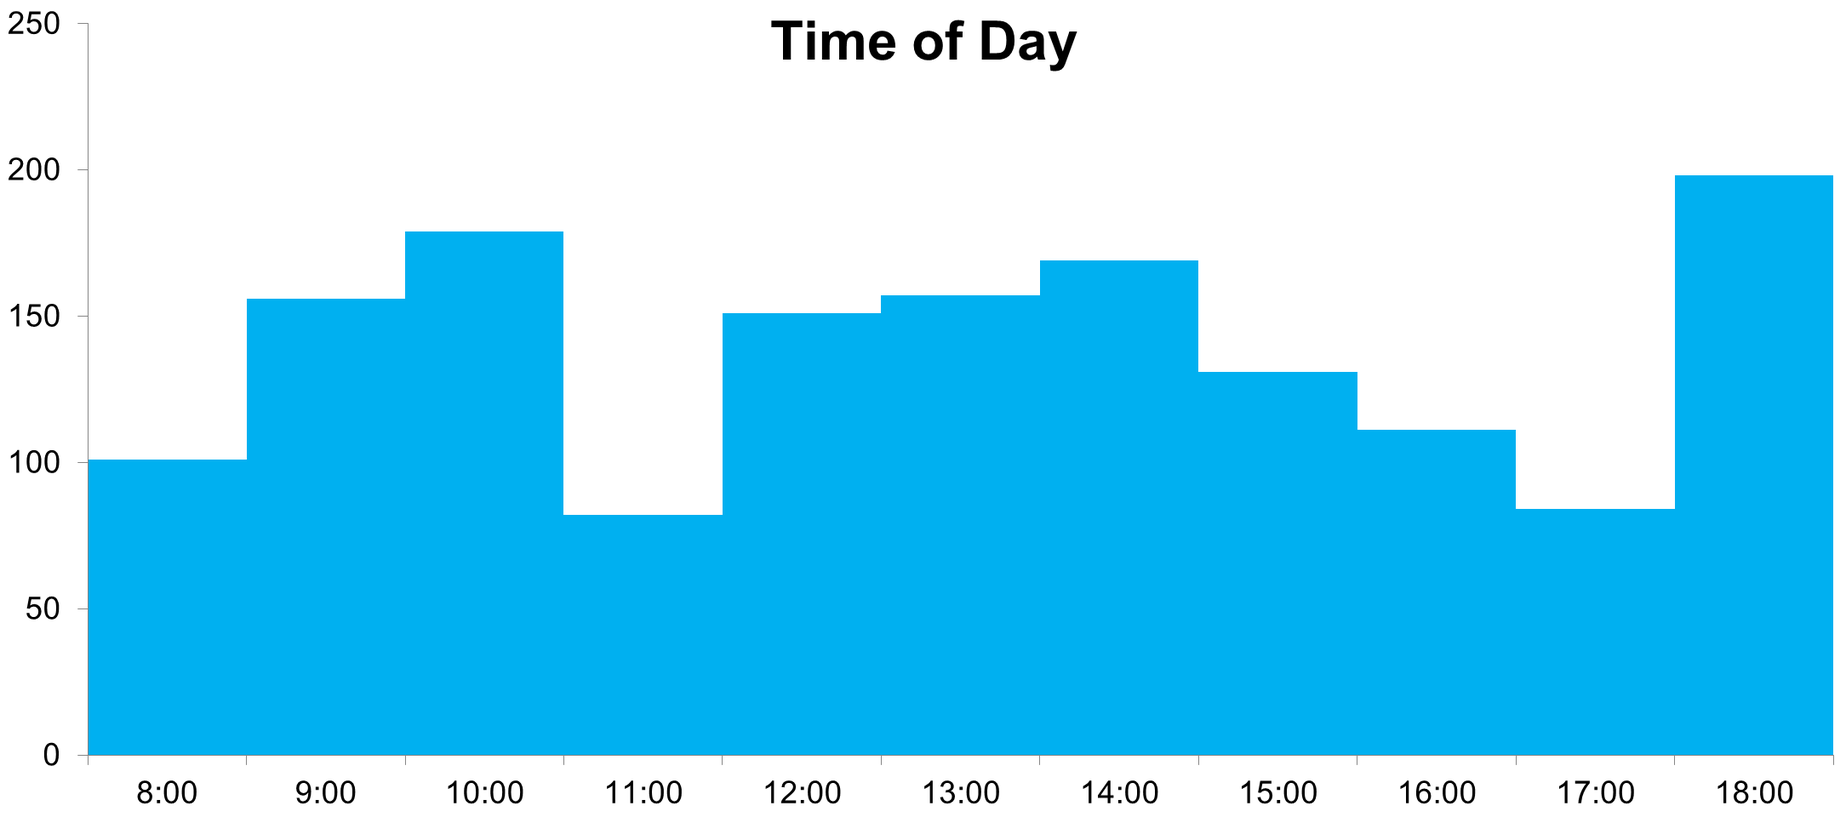
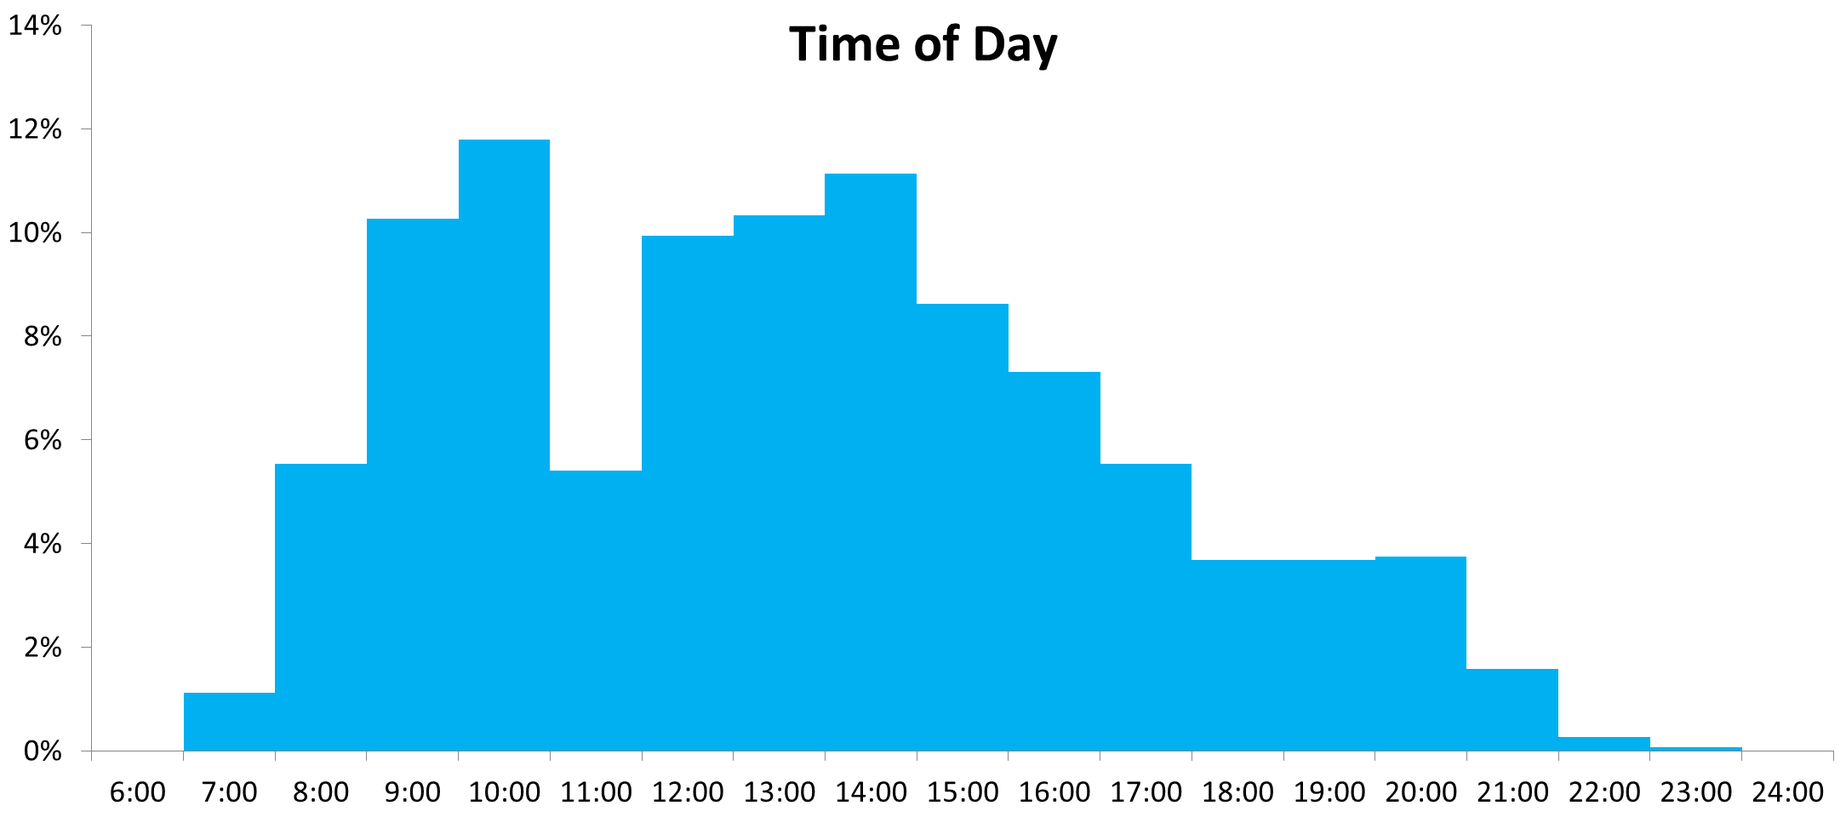
Continued re-focus

diff --git a/index.html b/index.html
@@ -187,7 +187,7 @@ chart.render();
       <div class="navbar navbar-inverse navbar-fixed-top">
         <div class="navbar-inner">
           <div class="container">
-            <!-- Responsive Navbar Part 1: Button for triggering responsive navbar (not covered in tutorial). Include responsive CSS to utilize. -->
+            <!-- Responsive Navbar Part 1: Button for triggering responsive navbar. Include responsive CSS to utilize. -->
             <a class="btn btn-navbar" data-toggle="collapse" data-target=".nav-collapse"> <span class="icon-bar"></span> <span class="icon-bar"></span> <span class="icon-bar"></span> </a>
             <h1 class="brand"><a href="#top">Geospatial</a></h1>
             <!-- Responsive Navbar Part 2: Place all navbar contents you want collapsed withing .navbar-collapse.collapse. -->
@@ -210,7 +210,7 @@ chart.render();
     <!-- ******************** HeaderWrap ********************-->
     <div id="headerwrap">
       <header class="clearfix">
-        <h1><span>THE LOCATION EXPERIMENT</span><br>what my location says about me</span></h1>
+        <h1><span>THE LOCATION EXPERIMENT</span><br>the value of tracking customer location</span></h1>
         <div class="container">
           <div class="row">
             <div class="span12">
@@ -239,41 +239,52 @@ chart.render();
         <!-- ./container -->
       </section>
     </div>
+
     <!--******************** The Results Section ********************-->
+
     <section id="idea" class="single-page scrollblock">
       <div class="container">
             <div class="featurette">
               <h2 class="featurette-heading">So what's the idea?<span class="muted">| why should I care</span></h2>
-            <p>Through the ubiquity of smartphones, an enormous quantity of location data is available in the United States. With these data, much can be guessed about a person based on where they go, how often they go there, and how long they stay. This experiment explores how much I could learn about myself using only my location data as tracked by my smartphone.</p>
-            <p>Collecting my personal location data was very easy. Turns out, my locations are being tracked by Google. If you want to see if you're being tracked, check out <a href="http://www.google.com/locationhistory">Google's Location History website</a>. It allows you to export 30 days of location history in a single kml file. After I collected 90 days of location data, I challenged myself to guess a few things about...myself.</p>
-<p>I started with the basics: where do I work and where do I sleep. But that seemed easy. I wanted to see how far I could take it, so I asked questions like: how much money am I making or what is my favorite type of drink? I wanted to see how personal I could get.
+            <p>Through the ubiquity of smartphones, an enormous quantity of geolocation data is available in the United States, in many cases, as a result of users installing 3rd-party mobile applications. A recent report from <a href="http://www.computerworld.com/s/article/9245438/Evan_Schuman_Starbucks_caught_storing_mobile_passwords_in_clear_text_?taxonomyId=17&pageNumber=1">Computer World</a> stated that the Starbucks mobile payment application "...displays an extensive list of geolocation tracking points." But so what? What could Starbucks do with my location? How could they use these data to better target me as a customer?  
 </p>
-            </div>
+
+<p>
+So I decided to find out for them. In this experiment, I attempt to profile myself using only my location data as recorded by my smartphone. I will then use these data from the perspective of Starbucks to better target me as a customer.
+</p>
+
+<p>
+For this experiment, I needed personal location data, but I don't have Starbuck's mobile payment application on my phone. So, I collected 90 days of data from <a href="http://www.google.com/locationhistory">Google's Location History website</a>, a veritable treasure trove of "geolocation tracking points". Convienently, Google allows you to export 30 days of location history in a single kml file.
+</p>
+
+<p>
+After collecting these location data, I first wanted to profile myself so I started with the basics: where do I work, where do I sleep, and how much money do I probably make. I then wanted to identify my coffee purchasing habits, determining the cafes I normally frequent, my typical length of stay per visit, and how much do I likely spend. Finally, I wanted to figure out why I wasn't going to Starbucks, and identify what Starbucks could do to attract my business. 
+</p>
+
+<p>
+As a disclaimer before moving into the findings, I've kept most of my results as generalized as possible to avoid disclosing personal information (excluding where I drink coffee).
+</p>
+</div>
+</div>
 </section>
+
 <section id="results" class="single-page scrollblock">
         <div class="container">
           <div class="featurette">
-            <div class="inside">
-              <hgroup>
-                <h2>Profiling the target customer</h2>
-              </hgroup>
-              <div class="entry-content">
-                <p>The first objective is to profile the customer.</p>
-            </div>
-            <!-- /.inside -->
-          </div>
-          <div class="featurette">
+	   <h1>Profiling the Customer</h1>
+<br>
             <div class="inside">
               <hgroup>
                 <h2>Where in the world?</h2>
               </hgroup>
             <div class="mask2"> <a href="img/map_images/where_in_the_world.png" rel="prettyPhoto"><img src="img/map_images/where_in_the_world.png" alt=""></a> </div>
-                <a class="more-link" href="img/map_images/where_in_the_world.png">view map</a> </div>
+                <a class="more-link" href="img/map_images/where_in_the_world.png">view map</a> 
               <div class="entry-content">
-                <p>Starting simply, it's clear that the target (me) is located in the United States. A simple point density analysis shows that I am most often found in Washington DC, with a few exceptions that include: New York City, Rochester NY, and Dallas TX.</p>
+                <p>Starting simply, it's clear that the target (me) is located in the United States. A simple point density analysis shows that I am most often found in Washington DC, with a few exceptions that include: New York City, Rochester NY, and Dallas TX. For the purposes of this experiment, we will only focus on DC.</p>
             </div>
             <!-- /.inside -->
           </div>
+</div>
           <!-- /.span4 -->
           <div class="featurette">
             <div class="inside">
@@ -281,15 +292,15 @@ chart.render();
                 <h2>Where do I work?</h2>
               </hgroup>
             <div class="mask2"> <a href="img/map_images/working_hours.png" rel="prettyPhoto"><img src="img/map_images/working_hours.png" alt=""></a> </div>
-                <a class="more-link" href="img/map_images/working_hours.png">view map</a> </div>
+                <a class="more-link" href="img/map_images/working_hours.png">view map</a> 
               <div class="entry-content">
-                <p>To figure out where I work, I focused in on DC, and looked for my locations during normal business hours (excluding holidays - which in this case included Thanksgiving and the Friday after, Christmas Day, New Year's Eve and New Year's day, and Martin Luther King day). I was able to determine that during the working day I can be found in one of these 3 areas. We could narrow this down significantly but I'm keeping things relatively generalized to not give exact personal details away. 
+
+<p>To figure out where I work, I looked for my locations during normal business hours (excluding holidays). I was able to determine that during the working day I can be found in one of these 3 areas. These three areas are very distinct in their composition. The northern-most point is a residential area that has several service-orientated sectors nearby. The eastern-most area focuses on a governmental department building, while the western-most area focuses on a building in Rosslyn Virginia which is occupied by Deloitte LLP and CEB advisory. Also, the target in question makes semi-regular trips between the governmental department building and the Deloitte/CEB building during the day so it's likely that this character works for a consulting firm that supports a federal department. From these results it also appears as though I may telework on occasion. 
 </p>
-<p>
-These three areas are very distinct in their composition. The northern-most point is a residential area that has several service-orientated sectors nearby. The eastern-most area focuses on a governmental department building, while the western-most area focuses on a building occupied by Deloitte LLP and CEB advisory. Also, the character in question (me) makes semi-regular trips between the governmental department building and the Deloitte/CEB building during the day so it's likely that this character works for a consulting firm that supports a federal department.</p>
             </div>
             <!-- /.inside -->
           </div>
+</div>
           <!-- /.span4 -->
           <div class="featurette">
             <div class="inside">
@@ -299,7 +310,7 @@ These three areas are very distinct in their composition. The northern-most poin
             <div class="mask2"> <a href="img/map_images/live.png" rel="prettyPhoto"><img src="img/map_images/live.png" alt=""></a> </div>
                 <a class="more-link" href="img/map_images/live.png">view map</a> </div>
               <div class="entry-content">
-                <p>Looking at non-business hours, it was very clear where I live. In fact, if I wasn't generalizing things, you could make an educated guess as to my apartment number, or an exact guess if I threw in elevation data. Also, from these results it appears as though I may telework on occasion. Ok, so that narrows down my likely place of business to two areas - the one near the mall and the other in Rosslyn Virginia. The data is so specific, I can not only identify the buildings, but the areas in buildings where I sit.</p>
+                <p>Looking at non-business hours, it was very clear where I live. In fact, if I wasn't generalizing things, you could make an educated guess as to my apartment number, or an exact guess if I threw in elevation data. Also, it's very easy to estimate my apartment's square footage.</p>
             </div>
             <!-- /.inside -->
           </div>
@@ -315,7 +326,7 @@ These three areas are very distinct in their composition. The northern-most poin
               </hgroup>
 <div class="mask2" id="chartContainer" style="height: 300px; width: 100%;"></div>
               <div class="entry-content">
-                <p>Using real estate resources, I quickly looked up the average cost of apartments in the building where I reside. The mean cost of apartments is $568,800, with 95% confidence that the value of the apartment is somewhere between $526,746 and $610,819. Assuming general industry guidelines, I probably bought the property with a down payment of 10%, an interest rate of 4.2%, and monthly costs that fall between 30% and 50% of my total household income. These estimates place the monthly cost of ownership between $3,108 and $3,745, and as a result, it's likely that my household brings in between $74,592 and $149,800. I could further refine these numbers if I used the square footage I estimated from the map data, which incidentally was 90% accurate. I guess I need to utilize the corners of my apartment.</p>
+                <p>Using publicly available real estate resources, I quickly looked up the average cost of apartments in the building where I reside. The mean cost of apartments is $568,800, with 95% confidence that the value of the apartment is somewhere between $526,746 and $610,819. Assuming general industry guidelines, I probably bought the property with a down payment of 10%, an interest rate of 4.2%, and monthly costs that fall between 30% and 50% of my total household income. These estimates place the monthly cost of ownership between $3,108 and $3,745, and as a result, it's likely that my household brings in between $74,592 and $149,800. I could further refine these numbers if I used the square footage I estimated from the map data, which incidentally was 90% accurate.</p>
             </div>
             <!-- /.inside -->
           </div>
@@ -324,43 +335,24 @@ These three areas are very distinct in their composition. The northern-most poin
           <div class="span12">
             <div class="inside">
               <hgroup>
-                <h2>What do my weekends look like?</h2>
+                <h2>When do I drink coffee?</h2>
               </hgroup>
             <div class="mask2"> <a href="img/map_images/weekends.png" rel="prettyPhoto"><img src="img/map_images/weekends.png" alt=""></a> </div>
                 <a class="more-link" href="img/map_images/weekends.png">view map</a> </div>
               <div class="entry-content">
-                <p>So what do I do on weekends? It looks like I tend to stay near home for the most part, frequenting a few nearby coffee shops, one diner, and a whisky specialty bar. When I leave the neighborhood, I evidently spend some time in Georgetown and the mall, usually stopping off at coffee shops for a change of pace.</p>
-            </div>
-            <!-- /.inside -->
-          </div>
-          <!-- /.span4 -->
-          <div class="span12">
-            <div class="inside">
-              <hgroup>
-                <h2>Character Overview</h2>
-              </hgroup>
-            <div class="mask2"> <a href="img/map_images/polyline.png" rel="prettyPhoto"><img src="img/map_images/polyline.png" alt=""></a> </div>
-                </div>
-              <div class="entry-content">
-                <p>So from this experiment I've been able to identify several things about myself. I work at a federal agency, Deloitte LLP or CEB in Arlington, and my position allows me to work from home on occasion. I can demonstrate my commute on the Red or Yellow/Green lines to get to work, and I can infer my salary from several different sources - one being my apartment building. </p>
-<p>
-Importantly, where I like to get coffee.
-</p>
-
+                <p>So when do I buy coffee? It looks like during the weekends, where I tend to stay near home for the most part, frequenting a few nearby coffee shops, one diner, and a whisky specialty bar. I threw that last detail in because if Starbucks wants to get into whisky, I would be supportive. When I leave the neighborhood, I evidently spend some time in Georgetown and the mall, usually stopping off at coffee shops for a change of pace.</p>
             </div>
             <!-- /.inside -->
           </div>
 </div>
+<br>
 
-                <h2>So we've profiled the customer, now what?</h2>
-<p>After we've profiled the customer, let's figure out where they are buying their coffee.</p>
-
-          <!-- /.span4 -->
-<!-- Beginning -->
-                <h2>Where are they buying coffee?</h2>
+	   <h1>How can Starbucks use these data?</h1>
+<br>
+                <h2>Where am I buying coffee?</h2>
               </hgroup>
             <div class="mask2"> <a href="img/map_images/coffeeshops_zoom.png" rel="prettyPhoto"><img src="img/map_images/coffeeshops_zoom.png" alt=""></a> </div>
-               <div> <a class="more-link" href="img/map_images/coffeeshops_zoom.png">view map</a> </div> <div class="entry-content"> <p>From the analysis, it is clear that despite being closer to their home, our target will consistently choose a nearby coffeeshop over Starbucks. In fact, our target appears to have never stepped foot in the nearby Starbucks.</p>
+               <div> <a class="more-link" href="img/map_images/coffeeshops_zoom.png">view map</a> </div> <div class="entry-content"> <p>There are several Starbucks near my home, and one that falls directly in the area where I am most often during weekends. However from the data, it is clear that despite being closer to the house, our target consistently has chosen a nearby independent coffee shop instead of Starbucks. In fact, our target appears to have never stepped foot in the nearby Starbucks. The nearby coffee shop has comperable pricing, and no free wifi during the weekend. Two distinguishing features of the independent coffee shop is that it has a more extensive menu and serves alcohol. </p>
             </div>
 <!-- End -->
 <!-- Beginning -->
@@ -369,7 +361,7 @@ Importantly, where I like to get coffee.
             <div class="mask2"> <a href="img/map_images/timeofday.png" rel="prettyPhoto"><img src="img/map_images/timeofday.png" alt=""></a> </div>
                <div> <a class="more-link" href="img/map_images/timeofday.png">view map</a> </div>
               <div class="entry-content">
-                <p>Our target has visited the coffee shop a total of 20 times during the three months analyzed. All 20 visits have occurred during the weekend, and the hour where our target is located at the coffee shop shows a uniform distribution between the hours of 8AM to 6PM.</p>
+                <p>Our target has visited the coffee shop a total of 20 times during the three months analyzed, and all 20 visits have occurred during the weekend. The target appears to visit the shop around 8:00 and around 12:00. The target is most likely to be found at the coffee shop mid-morning and early afternoon, between 10-11 and 14-15 respectively.</p>
             </div>
 <!-- End -->
 <!-- Beginning -->
@@ -378,19 +370,19 @@ Importantly, where I like to get coffee.
             <div class="mask2"> <a href="img/map_images/duration.png" rel="prettyPhoto"><img src="img/map_images/duration.png" alt=""></a> </div>
                <div> <a class="more-link" href="img/map_images/duration.png">view map</a> </div>
               <div class="entry-content">
-                <p>For the majority of times the target visits the competition, they will stay at the coffee shop for more than 30 minutes. Thirty percent of time, they stop in and leave immediately. Assuming the duration of their stay is correlated with the number of purchases made (including meals), we can assume that this particular customer has a relatively high average amount of money spent per visit. In fact, if we make some basic inferences, we can estimate the total amount of money spent by our target, as well as their average money spent per vist.</p>
+                <p>In most cases when our target stays at the competitor coffee shop for more than 30 minutes. Thirty percent of time, the target stops in and leaves immediately. Assuming the duration of their stay is correlated with the number of purchases made (including meals), we can assume that this particular customer has a relatively high average amount of money spent per visit. In fact, if we make some basic inferences, we can estimate the total amount of money spent by our target, as well as their average money spent per vist.</p>
 <p>
-Let's assume that during the times when our target simply enters and leaves the coffee shop that they are simply purchasing a single coffee at a value of $2.50. Let's also assume that for visits longer than that, the target buys at least 1 coffee per hour, with a maximum number of 3 coffees per day. Additionally, for visits lasting between 1 and 10 hours, let's assume the target has purchased one meal every 6 hours at a value of $15 dollars. With these basic assumptions, we can therefore infer taht the total amount spent by this individual has been $132.50 over a period of 3 months, or $6.63 per visit. 
+Let's assume that during the times when our target simply enters and leaves the coffee shop, they are simply purchasing a single coffee at a cost of $2.50. Let's also assume that for visits longer than that, the target buys at least 1 coffee per hour, with a maximum number of 3 coffees per day. Additionally, for visits lasting between 1 and 10 hours, let's assume the target has purchased one meal every 6 hours at a value of $15 dollars. With these basic assumptions, we can therefore infer that the total amount spent by this individual has been $132.50 over a period of 3 months, or $6.63 per visit. 
 </p>
             </div>
 <!-- End -->
 <!-- Beginning -->
-                <h2>What's different about the competition?</h2>
+                <h2>Why not Starbucks?</h2>
               </hgroup>
             <div class="mask2"> <a href="img/map_images/paulvsstarbucks.png" rel="prettyPhoto"><img src="img/map_images/paulvsstarbucks.png" alt=""></a> </div>
                <div> <a class="more-link" href="img/map_images/paulvsstarbucks.png">view map</a> </div>
               <div class="entry-content">
-                <p>Why does our target prefer to go to the competitor? One possible explanation is that the target does not like chains. Unfortunately, the map data suggests that this probably isn't the case. Zooming out and looking at what other coffee shops this target prefers, we find that the target often frequents the coffee shop and bakery "Paul", a large chain that's often located within sight of Starbucks. This is a very large chain, and therefore we can assume that generally, the target will accept purchasing coffee from a big-box chain.</p>
+                <p>Why does our target prefer to go to the Starbucks' competitor? One possible explanation is that the target does not like to patronize national brand coffee chains. Unfortunately, the map data suggests that this probably isn't the case. Zooming out and looking at what other coffee shops this target prefers, we find that the target often frequents the coffee shop and bakery chain "Paul". All of the Paul locations that our target visited had at least 1 2 Starbucks located on the same block, and therefore we can assume that generally, the target will accept purchasing coffee from a national chain.</p>
             </div>
 <!-- End -->
 <!-- Beginning -->
@@ -399,12 +391,14 @@ Let's assume that during the times when our target simply enters and leaves the 
             <div class="mask2"> <a href="img/map_images/move.png" rel="prettyPhoto"><img src="img/map_images/move.png" alt=""></a> </div>
                <div> <a class="more-link" href="img/map_images/move.png">view map</a> </div>
               <div class="entry-content">
-                <p>From location data alone, we now know that the target will choose our competitors every time given the chance. They will walk longer distances for similar prices and no complimentary wifi. We know the target stays for relatively long periods of time on the weekends, and does not visit coffee shops during the week.</p>
+                <p>From location data alone, we now know that the target will choose the competitors every time given the chance. They will walk longer distances for similar prices and no complimentary wifi. We know the target stays for relatively long periods of time on the weekends, and does not visit coffee shops during the week.</p>
 <p>
-So why are they doing this? What makes the competitors that much more attractive. When comparing Paul and Starbucks, the clear differentiation is the type of food provided. Paul is known as a high-end French patisserie that bakes on site. Looking at Tryst's menu, it appears they also serve freshly made croissants. Perhaps to attract this target, Starbucks should consider improving the quality of their french pastries.
+So what makes the competitors that much more attractive? When comparing Paul and Starbucks, the clear differentiation is the type of food provided. Paul is known as a high-end French patisserie that bakes on site. Looking at Tryst's menu, it appears they also serve freshly made croissants. Perhaps to attract this target, Starbucks should consider improving the quality of their french pastries.
 </p>
 <p>
-The target also appears to spend a significant amount of time at the coffee shop, potentially reading or working. Therefore, perhaps the ambiance is an important factor, and perhaps comparing the interiors of the competitors would be valuable.</p>
+Our target also appears to spend a significant amount of time at the coffee shop, potentially reading or working. Therefore, perhaps the ambiance is an important factor, and perhaps comparing the interiors of the competitors would be valuable.</p>
+<p>
+Ultimately, the point of this experiment is to demonstrate the fact that location data can be a very powerful asset in profiling and targeting customers.</p>
             </div>
 <br>
 <!-- End -->

diff --git a/css/style.css b/css/style.css
@@ -340,7 +340,7 @@ ul.icon li:hover {
 	opacity:0.7;
 }
 section.single-page {
-	padding: 4.75em 0; /* 76px */
+	padding: 1.75em 0; 
 }
 section.single-page h1 {
 	text-align: center;
@@ -390,6 +390,8 @@ section#results h1 {
 	font-size: 3em;
 	margin-bottom: 1em;
 	margin-top: 0.5em;
+	text-align: left;
+	color: rgb(0,161,222);
 }
 section#results hgroup h2 {
 	margin-top: 1em;
